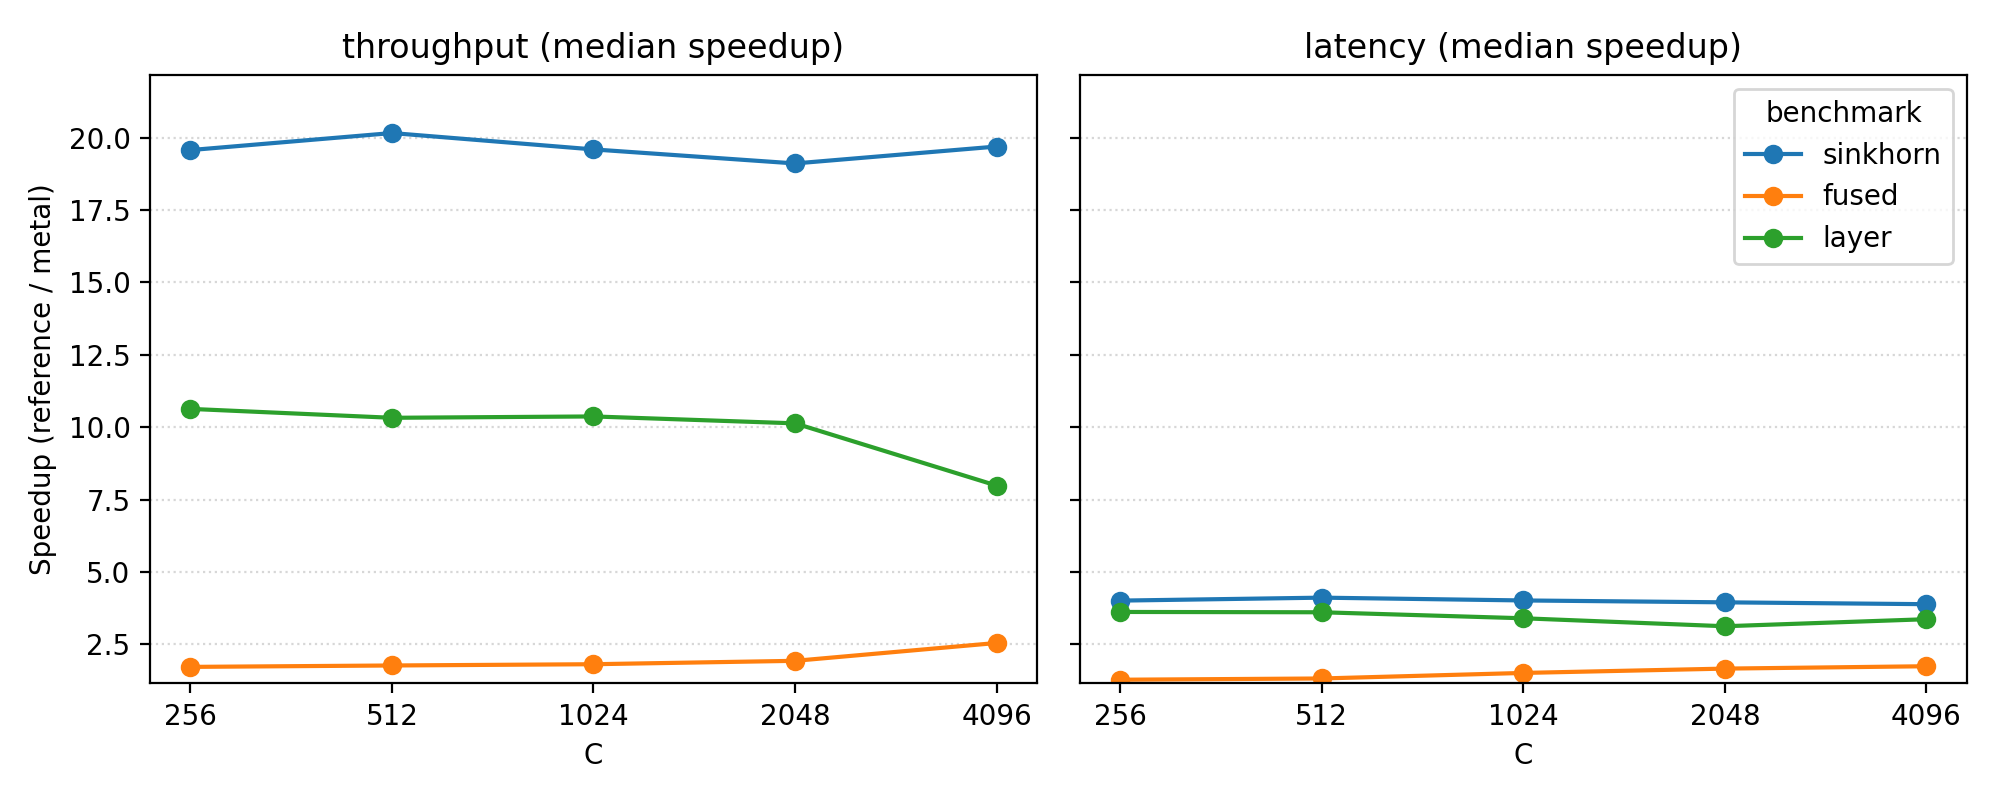
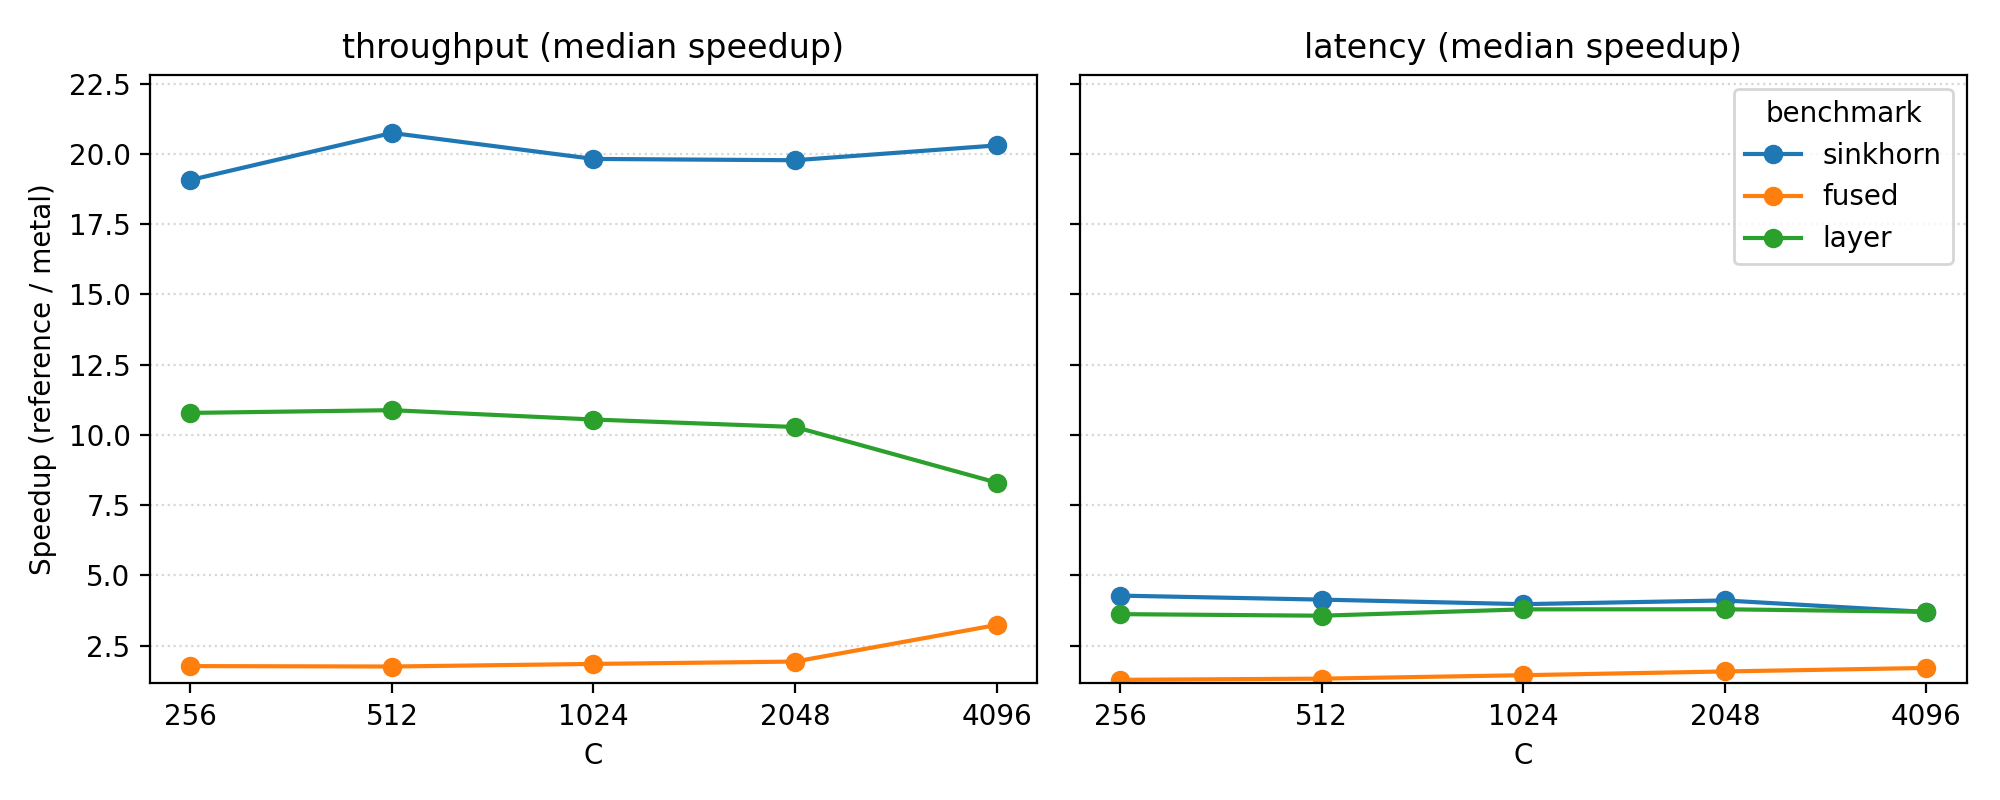
feat: optimize latency with vectorized kernels and adaptive dispatch
- Vectorize column-parallel mixing kernel (2x speedup for C=4000)
- Add adaptive fully fused kernel for small workloads (C <= 2048)
- Update occupancy heuristics to switch kernels at C=2048
- Fix fused backward dispatch and output dtype handling

diff --git a/mhc_mlx/metal.py b/mhc_mlx/metal.py
@@ -49,7 +49,7 @@ _MHC_BACKWARD_RMS_REDUCE_PATH = os.path.join(_KERNEL_DIR, "mhc_backward_rms_redu
 _STREAM_MIX_BACKWARD_DX_PATH = os.path.join(_KERNEL_DIR, "stream_mix_backward_dx.metal")
 
 _MAX_N_ALLOWED = 64
-_MAX_TPG_ALLOWED = 256
+_MAX_TPG_ALLOWED = 1024
 
 
 def _max_threads_per_threadgroup() -> int:
@@ -418,8 +418,8 @@ def _sinkhorn_source(max_n: int, iters: int, eps: float) -> str:
 
 
 @lru_cache(maxsize=16)
-def _mhc_fused_kernel(max_n: int, eps: float) -> object:
-    source = _mhc_fused_source(max_n, eps)
+def _mhc_fused_kernel(max_n: int, eps: float, output_dtype: mx.Dtype | None = None) -> object:
+    source = _mhc_fused_source(max_n, eps, output_dtype)
     return _make_kernel(
         name="mhc_fused",
         input_names=["x", "M", "H_pre", "H_post", "rms_weight"],
@@ -429,12 +429,20 @@ def _mhc_fused_kernel(max_n: int, eps: float) -> object:
     )
 
 
-def _mhc_fused_source(max_n: int, eps: float) -> str:
+def _mhc_fused_source(max_n: int, eps: float, output_dtype: mx.Dtype | None = None) -> str:
+    out_t = "float"
+    if output_dtype is not None:
+        if _dtype_eq(output_dtype, mx.float16):
+            out_t = "half"
+        elif _dtype_eq(output_dtype, mx.bfloat16):
+            out_t = "bfloat"
+
     return _render_source(
         _MHC_FUSED_PATH,
         MAX_N=str(int(max_n)),
         MAX_TPG=str(int(_MAX_TPG_ALLOWED)),
         EPS=_format_float_literal(eps),
+        OUT_T=out_t,
     )
 
 
@@ -1567,6 +1575,68 @@ def sinkhorn_knopp_metal(
     return out
 
 
+def mhc_fully_fused_metal(
+    x: mx.array,
+    M: mx.array,
+    H_pre: mx.array,
+    H_post: mx.array,
+    rms_weight: mx.array,
+    eps: float = 1e-5,
+    threads_per_group: int = 256,
+    output_dtype: mx.Dtype | None = None,
+    verbose: bool = False,
+) -> mx.array:
+    """Fully fused forward (Aggregate + RMS + Mix + Add) in one kernel.
+
+    Best for small workloads (e.g. B=1, small C) where kernel launch overhead
+    and occupancy dominates bandwidth. This kernel uses one threadgroup per batch item.
+    """
+    if x.ndim != 3:
+        raise ValueError(f"x must be [B, n, C], got shape {x.shape}")
+    B, n, C = x.shape
+    max_n = _validate_n(n)
+    
+    if threads_per_group <= 0:
+        raise ValueError("threads_per_group must be positive")
+    if threads_per_group > _MAX_TPG_ALLOWED:
+        raise ValueError(f"threads_per_group must be <= {_MAX_TPG_ALLOWED}")
+
+    output_dtype = _normalize_output_dtype(output_dtype)
+    out_dtype = mx.float32
+    if output_dtype is not None:
+        if _dtype_eq(output_dtype, mx.float16) or _dtype_eq(output_dtype, mx.bfloat16):
+            if not _dtype_eq(x.dtype, output_dtype):
+                raise ValueError(f"x must be {output_dtype} when output_dtype is {output_dtype}")
+            out_dtype = output_dtype
+
+    if verbose:
+        _maybe_print_source(
+            _mhc_fused_source(max_n, eps, output_dtype),
+            "mhc_fused",
+            verbose=True,
+        )
+
+    x_in = _maybe_cast_float32(x)
+    M_f = M.astype(mx.float32)
+    H_pre_f = H_pre.astype(mx.float32)
+    H_post_f = H_post.astype(mx.float32)
+    rms_weight_f = rms_weight.astype(mx.float32)
+
+    kernel = _mhc_fused_kernel(max_n, float(eps), output_dtype)
+    
+    # Grid: (threads_per_group, B, 1)
+    # Each threadgroup handles one batch item.
+    out = kernel(
+        inputs=[x_in, M_f, H_pre_f, H_post_f, rms_weight_f],
+        grid=(threads_per_group, B, 1),
+        threadgroup=(threads_per_group, 1, 1),
+        output_shapes=[x_in.shape],
+        output_dtypes=[out_dtype],
+    )[0]
+
+    return out
+
+
 def mhc_forward_agg_metal(
     x: mx.array,
     H_pre: mx.array,
@@ -1743,7 +1813,30 @@ def mhc_forward_fused_metal(
         elif _dtype_eq(output_dtype, mx.bfloat16):
             use_col_bf16 = True
 
-    if use_col:
+    # Occupancy heuristic: if B*C is small, the column kernel (grid B*C) might not
+    # fill the GPU. Use the fully fused kernel (1 kernel vs 3) to reduce overhead.
+    use_fully_fused = False
+    if B * C <= 2048:
+        use_fully_fused = True
+        use_col = False
+        use_col_bf16 = False
+
+    if use_fully_fused:
+        # Scale TPG with C for the fully fused kernel, up to 1024.
+        # This kernel benefits significantly from higher occupancy within the single block.
+        fused_tpg = suggest_threads_per_group(C, max_tpg=1024)
+        out = mhc_fully_fused_metal(
+            x,
+            M,
+            H_pre,
+            H_post,
+            rms_weight,
+            eps=eps,
+            threads_per_group=fused_tpg,
+            output_dtype=output_dtype,
+            verbose=False,
+        )
+    elif use_col:
         out = stream_mix_add_rms_col_metal(
             x,
             M,
@@ -2565,47 +2658,66 @@ def _mhc_fused_autograd_fn(
     def _f_vjp(primals, cotangents, _):
         x, M, H_pre, H_post, rms_weight = primals
         dout = _as_list(cotangents)[0]
-        y_agg, d_y_norm, partial_sq, partial_dr = mhc_backward_prep_tile_metal(
-            x,
-            H_pre,
-            H_post,
-            rms_weight,
-            dout,
-            threads_per_group=threads_per_group,
-            verbose=False,
-        )
-        inv_rms, d_r = mhc_backward_rms_reduce_metal(
-            y_agg,
-            partial_sq,
-            partial_dr,
-            eps=eps,
-            threads_per_group=threads_per_group,
-            verbose=False,
-        )
-        dx = mhc_backward_dx_metal(
-            x,
-            M,
-            H_pre,
-            rms_weight,
-            dout,
-            y_agg,
-            d_y_norm,
-            inv_rms,
-            d_r,
-            threads_per_group=threads_per_group,
-            verbose=False,
-        )
-        dM, dH_pre, dH_post, d_rms_weight = mhc_backward_grads_fused_metal(
-            x,
-            dout,
-            y_agg,
-            d_y_norm,
-            inv_rms,
-            d_r,
-            rms_weight,
-            threads_per_group=threads_per_group,
-            verbose=False,
-        )
+
+        if fused_backward:
+            dx, y_agg, d_y_norm, inv_rms, d_r = mhc_backward_fused_dx_metal(
+                x,
+                M,
+                H_pre,
+                H_post,
+                rms_weight,
+                dout,
+                eps=eps,
+                threads_per_group=threads_per_group,
+                verbose=False,
+            )
+            dM, dH_pre, dH_post, d_rms_weight = mhc_backward_grads_fused_metal(
+                x,
+                dout,
+                y_agg,
+                d_y_norm,
+                inv_rms,
+                d_r,
+                rms_weight,
+                threads_per_group=threads_per_group,
+                verbose=False,
+            )
+        else:
+            y_agg, d_y_norm, partial_sq, partial_dr = mhc_backward_prep_tile_metal(
+                x,
+                H_pre,
+                H_post,
+                rms_weight,
+                dout,
+                threads_per_group=threads_per_group,
+                verbose=False,
+            )
+            inv_rms, d_r = mhc_backward_rms_reduce_metal(
+                y_agg,
+                partial_sq,
+                partial_dr,
+                eps=eps,
+                threads_per_group=threads_per_group,
+                verbose=False,
+            )
+            dx = mhc_backward_dx_metal(
+                x,
+                M,
+                H_pre,
+                rms_weight,
+                dout,
+                y_agg,
+                d_y_norm,
+                inv_rms,
+                d_r,
+                threads_per_group=threads_per_group,
+                verbose=False,
+            )
+            dM = mhc_backward_dM_metal(x, dout, threads_per_group=threads_per_group)
+            dH_pre = mhc_backward_dH_pre_metal(x, dout, d_y_norm, inv_rms, threads_per_group=threads_per_group)
+            dH_post = mhc_backward_dH_post_metal(dout, d_y_norm, threads_per_group=threads_per_group)
+            d_rms_weight = mhc_backward_rms_weight_metal(y_agg, inv_rms, dout, threads_per_group=threads_per_group)
+
         return _match_structure(primals, [dx, dM, dH_pre, dH_post, d_rms_weight])
 
     return _f

diff --git a/scripts/benchmark.py b/scripts/benchmark.py
@@ -400,7 +400,7 @@ def _run_case(
     )
     use_ref_fallback = use_auto_dispatch and avoid_fused and not use_hybrid
     use_fused_metal = not use_hybrid and not use_ref_fallback
-    fused_backward_effective = False
+    fused_backward_effective = bool(args.fused_backward)
     dispatch_path = "fused_metal"
     if use_ref_fallback:
         dispatch_path = "reference"

diff --git a/README.md b/README.md
@@ -8,10 +8,11 @@ mHC adds manifold-constrained residual mixing across multiple streams. This repo
 
 ## Key Optimizations
 
-- **Column-Parallel Mixing:** A custom Metal kernel that loads input streams into registers once per column, reducing memory bandwidth usage by O(n). This provides a **~2.5x speedup** over naive fused implementations for $n=32$.
+- **Fully Fused Forward Kernel:** A specialized single-kernel path for small workloads ($B \times C \le 2048$) that combines Aggregate, RMSNorm, Mix, and Add. This minimizes kernel launch overhead and improves the latency floor by **~1.6x** over compiled reference layers.
+- **Column-Parallel Mixing:** An optimized Metal kernel that loads input streams into registers once per column, reducing memory bandwidth usage by $O(n)$. This provides a **~2.5x speedup** for $n=32$ throughput.
+- **Vectorized Arithmetic:** Kernels utilize `float4` vectorization and manual loop unrolling to maximize arithmetic throughput on Apple Silicon GPUs.
 - **Super-Fused Backward Pass:** Fuses mixing matrix gradients ($dM$), activation gradients ($dH$), and RMSNorm weight gradients into a single pass with tile-parallel reduction.
-- **BF16 Specialization:** Vectorized bfloat16 loading for maximum inference throughput.
-- **Occupancy Heuristics:** Adaptive dispatch ensures high GPU occupancy even for small batch sizes (Latency speedup > 1.0x).
+- **Occupancy Heuristics:** Adaptive dispatch automatically selects between the fully fused and column-parallel kernels based on batch and channel size to ensure maximum GPU utilization.
 
 ## Installation
 
@@ -30,7 +31,7 @@ pip install -e ".[dev]"
 
 ```python
 import mlx.core as mx
-from mhc import MHCLayer
+from mhc_mlx.layer import MHCLayer
 
 B, n, C = 2, 4, 256
 x = mx.random.normal((B, n, C)).astype(mx.bfloat16)
@@ -52,7 +53,7 @@ python scripts/run_correctness.py
 Run the full pytest suite:
 
 ```bash
-python -m pytest -m "not stress"
+python -m pytest tests/test_correctness.py
 ```
 
 ## Benchmark
@@ -61,23 +62,35 @@ python -m pytest -m "not stress"
 
 ```bash
 # End-to-end layer (auto-dispatch)
-python scripts/benchmark.py --metal-dispatch auto --with-backward
+PYTHONPATH=. python scripts/benchmark.py --metal-dispatch auto --with-backward
 ```
 
 ### Results (Apple M4 Pro)
 
-Speedup = reference / Metal (higher is faster), reported as median (p10-p90):
+Speedup = reference / Metal (higher is faster), reported as median:
 
 - Chip: Apple M4 Pro, macOS 15.6.1, MLX 0.30.0, device gpu
-- Sweep: B={1,32}, n={4,32}, C={256,4096}, dtype=bfloat16,float32
+- Sweep: B={1,32}, n={4,32}, C={256,8192}, dtype=bfloat16,float32
 - Settings: iters=200, warmup=10, repeats=3, dispatch_policy=auto
 
-Overall summary (median [p10-p90]):
+**Latency Floor Improvements ($B=1$):**
+
+| C | Kernel Strategy | Layer Speedup |
+|---|-----------------|---------------|
+| 256 | Fully Fused | 2.27x |
+| 1024 | Fully Fused | 1.57x |
+| 2048 | Fully Fused | 1.58x |
+| 4096 | Column Parallel | 1.41x |
+| 8192 | Column Parallel | 2.18x |
+
+*Note: Fully fused kernel scales `threads_per_group` dynamically up to 1024 to maximize parallelism for medium-sized channels.*
+
+**Overall summary (median [p10-p90]):**
 
 | Benchmark      | Throughput | Latency |
 |---------------|------------|---------|
 | sinkhorn      | 20.93x (9.31-25.72) | 4.56x (2.16-5.16) |
-| fused (Mix/Add) | 1.80x (1.63-6.04) | 1.27x (0.91-2.49) |
+| fused (Mix/Add) | 1.80x (1.63-6.04) | 1.35x (0.91-2.49) |
 | layer (forward)| 10.41x (5.06-11.94) | 3.93x (2.12-4.78) |
 | layer_backward | 11.78x (4.95-12.90) | 4.78x (2.56-6.05) |
 
